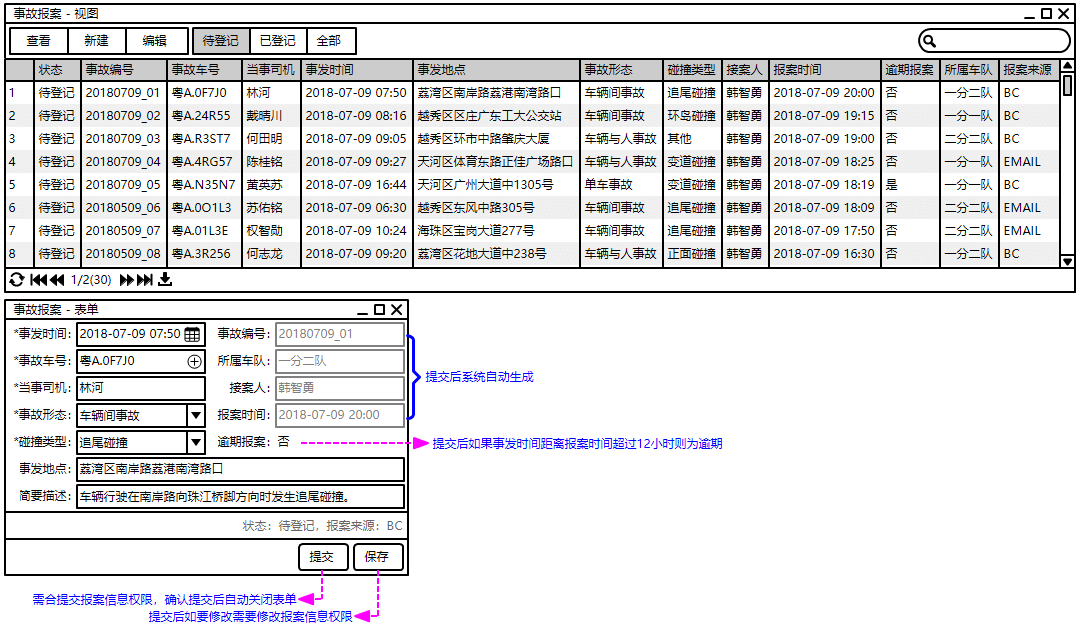
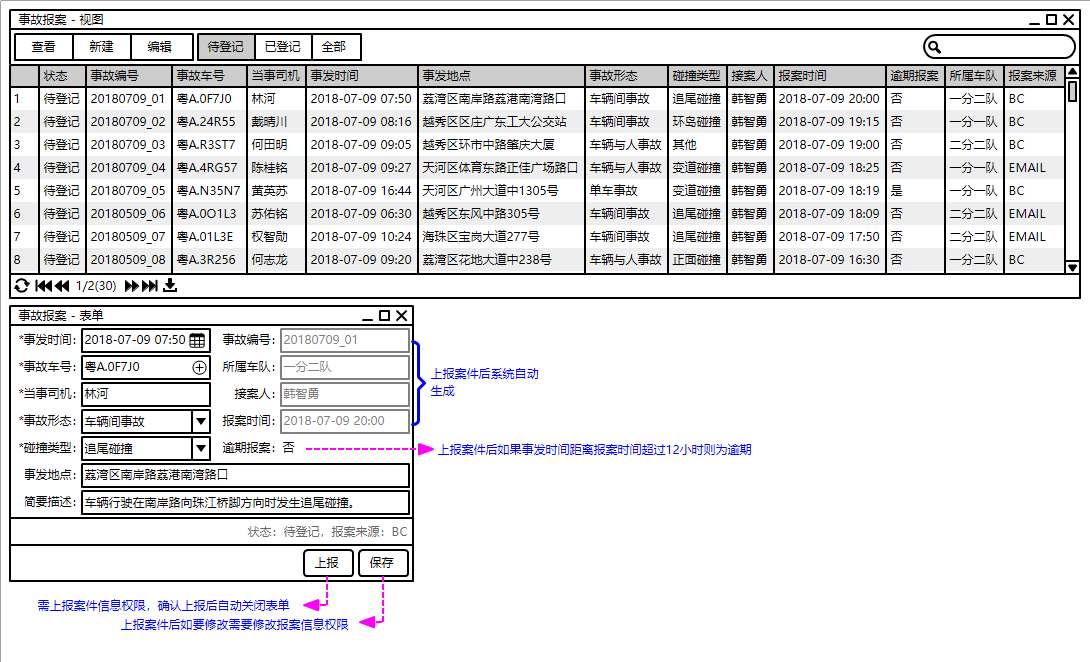
事故报案模块的"提交"相关信息改为“上报案件”

Changed region(s): [[0.0, 0.0, 1.0, 0.9984]]

diff --git a/gftaxi-traffic-accident-rest-webflux/src/main/kotlin/cn/gftaxi/traffic/accident/rest/webflux/ModuleConfiguration.kt b/gftaxi-traffic-accident-rest-webflux/src/main/kotlin/cn/gftaxi/traffic/accident/rest/webflux/ModuleConfiguration.kt
@@ -50,7 +50,7 @@ class ModuleConfiguration @Autowired constructor(
       AccidentDraftHandler.FIND_REQUEST_PREDICATE.invoke(accidentDraftHandler::find)
       // GET /accident-draft/{code} 获取指定编号的报案信息
       AccidentDraftHandler.GET_REQUEST_PREDICATE.invoke(accidentDraftHandler::get)
-      // POST /accident-draft 提交事故报案信息
+      // POST /accident-draft 上报案件信息
       AccidentDraftHandler.SUBMIT_REQUEST_PREDICATE.invoke(accidentDraftHandler::submit)
       // PUT /accident-draft/{code} 更新事故报案信息
       AccidentDraftHandler.UPDATE_REQUEST_PREDICATE.invoke(accidentDraftHandler::update)

diff --git a/gftaxi-traffic-accident-data/src/main/kotlin/cn/gftaxi/traffic/accident/service/AccidentDraftService.kt b/gftaxi-traffic-accident-data/src/main/kotlin/cn/gftaxi/traffic/accident/service/AccidentDraftService.kt
@@ -40,10 +40,10 @@ interface AccidentDraftService {
   fun get(code: String): Mono<AccidentDraft>
 
   /**
-   * 提交新的报案。
+   * 上报新的报案。
    *
    * @return 自动生成的事故编号
-   * @throws [SecurityException] 无 [AccidentDraft.ROLE_SUBMIT] 提交报案信息权限
+   * @throws [SecurityException] 无 [AccidentDraft.ROLE_SUBMIT] 上报案件信息权限
    * @throws [IllegalArgumentException] 指定车号和事发时间的案件已经存在
    */
   fun submit(dto: AccidentDraftDto4Submit): Mono<String>

diff --git a/gftaxi-traffic-accident-data/src/main/kotlin/cn/gftaxi/traffic/accident/po/AccidentDraft.kt b/gftaxi-traffic-accident-data/src/main/kotlin/cn/gftaxi/traffic/accident/po/AccidentDraft.kt
@@ -65,9 +65,9 @@ data class AccidentDraft(
   companion object {
     /** 查询报案信息角色 */
     const val ROLE_READ = "ACCIDENT_DRAFT_READ"
-    /** 提交报案信息角色 */
+    /** 上报案件信息角色 */
     const val ROLE_SUBMIT = "ACCIDENT_DRAFT_SUBMIT"
-    /** 提交报案信息角色 */
+    /** 修改报案信息角色 */
     const val ROLE_MODIFY = "ACCIDENT_DRAFT_MODIFY"
 
     /** 判断是否是预期报案 */

diff --git a/gftaxi-traffic-accident-data/src/main/kotlin/cn/gftaxi/traffic/accident/dto/AccidentDraftDto4Submit.kt b/gftaxi-traffic-accident-data/src/main/kotlin/cn/gftaxi/traffic/accident/dto/AccidentDraftDto4Submit.kt
@@ -3,7 +3,7 @@ package cn.gftaxi.traffic.accident.dto
 import java.time.OffsetDateTime
 
 /**
- * 提交报案信息用 DTO。
+ * 上报案件信息用 DTO。
  *
  * @author RJ
  */

diff --git a/CHANGELOG.md b/CHANGELOG.md
@@ -11,7 +11,7 @@
 
 ## 0.1.1 2018-07-16 19:30
 
-- 跨域请求添加允许 Content-Type 请求头，修正提交报案的跨域权限问题
+- 跨域请求添加允许 Content-Type 请求头，上报案件的跨域权限问题
 - 优化从邮件报案获取邮件内容的方法，自动去除 html 标记
 - 增加收取报案邮件的缓存处理，避免重复将已收取的邮件转换为 DTO
 - 修正视图和表单事故状态的返回值
